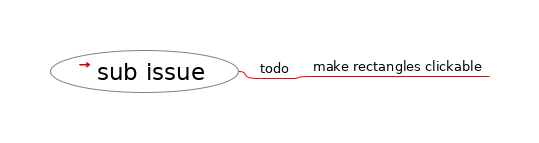
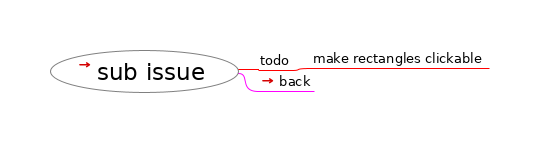
sub issue

Changed region(s): [[0.4453, 0.3636, 0.9202, 0.6434]]

diff --git a/index.html b/index.html
@@ -28,12 +28,12 @@
 <area shape="rect" href="#FMID_1857399077FM" alt="next" title="next" coords="395,71,448,89" />
 <area shape="rect" href="#FMID_695904482FM" alt="leopard" title="leopard" coords="395,274,469,292" />
 <area shape="rect" href="#FMID_1672181910FM" alt="png_2878995268067859884.png" title="png_2878995268067859884.png" coords="488,92,1088,470" />
-<area shape="rect" href="#FMID_902002559FM" alt="sub issue" title="sub issue" coords="395,473,481,491" />
+<area shape="rect" href="#FMID_902002559FM" alt="go to sub issue" title="go to sub issue" coords="395,473,520,491" />
 <area shape="rect" href="#FMID_433819245FM" alt="done" title="done" coords="65,232,123,250" />
 <area shape="rect" href="#FMID_848414105FM" alt="later" title="later" coords="69,253,123,271" />
 <area shape="rect" href="#FMID_1042692083FM" alt="waiting" title="waiting" coords="50,274,123,292" />
 <area shape="rect" href="#FMID_1823870673FM" alt="links" title="links" coords="69,295,123,313" />
 </map>
 
-<div class="node"><img src="index.html_files/hide.png" class="hideshow" alt="hide" onClick="toggle(&quot;N65543&quot;)" id="imgN65543" /><img src="index.html_files/icons/calendar.svg" alt="calendar" /> <a id="FMID_1894420573FM" /><div class="nodecontent" style="color:#000000;font-size:150%;"><a href="index.html">Mind Maps</a> <a href="index.html"><img src="index.html_files/ilink.png" alt="User Link" style="border-width:0" /></a></div><div class="content" id="N65543"><div class="node"><img src="index.html_files/leaf.png" class="hideshow" alt="leaf" /><img src="index.html_files/icons/idea.svg" alt="idea" /> <a id="FMID_359991860FM" /><div class="nodecontent" style="color:#000000;font-size:83%;">todo</div></div><div class="node"><img src="index.html_files/leaf.png" class="hideshow" alt="leaf" /><img src="index.html_files/icons/go.svg" alt="go" /> <a id="FMID_1857399077FM" /><div class="nodecontent" style="color:#000000;font-size:83%;">next</div></div><div class="node"><img src="index.html_files/hide.png" class="hideshow" alt="hide" onClick="toggle(&quot;N66529&quot;)" id="imgN66529" /><img src="index.html_files/icons/bookmark.svg" alt="bookmark" /> <a id="FMID_695904482FM" /><div class="nodecontent" style="color:#000000;font-size:83%;">leopard</div><div class="content" id="N66529"><div class="node"><img src="index.html_files/leaf.png" class="hideshow" alt="leaf" /><a id="FMID_1672181910FM" /><div class="nodecontent" style="color:#000000;font-size:83%;">png_2878995268067859884.png</div></div></div></div><div class="node"><img src="index.html_files/leaf.png" class="hideshow" alt="leaf" /><a id="FMID_902002559FM" /><div class="nodecontent" style="color:#000000;font-size:83%;"><a href="sub%20issue.html">sub issue</a> <a href="sub%20issue.html"><img src="index.html_files/ilink.png" alt="User Link" style="border-width:0" /></a></div></div><div class="node"><img src="index.html_files/leaf.png" class="hideshow" alt="leaf" /><img src="index.html_files/icons/button_ok.svg" alt="button_ok" /> <a id="FMID_433819245FM" /><div class="nodecontent" style="color:#000000;font-size:83%;">done</div></div><div class="node"><img src="index.html_files/leaf.png" class="hideshow" alt="leaf" /><img src="index.html_files/icons/prepare.svg" alt="prepare" /> <a id="FMID_848414105FM" /><div class="nodecontent" style="color:#000000;font-size:83%;">later</div></div><div class="node"><img src="index.html_files/leaf.png" class="hideshow" alt="leaf" /><img src="index.html_files/icons/hourglass.svg" alt="hourglass" /> <a id="FMID_1042692083FM" /><div class="nodecontent" style="color:#000000;font-size:83%;">waiting</div></div><div class="node"><img src="index.html_files/leaf.png" class="hideshow" alt="leaf" /><img src="index.html_files/icons/attach.svg" alt="attach" /> <a id="FMID_1823870673FM" /><div class="nodecontent" style="color:#000000;font-size:83%;">links</div></div></div></div>
+<div class="node"><img src="index.html_files/hide.png" class="hideshow" alt="hide" onClick="toggle(&quot;N65543&quot;)" id="imgN65543" /><img src="index.html_files/icons/calendar.png" alt="calendar" /> <a id="FMID_1894420573FM" /><div class="nodecontent" style="color:#000000;font-size:150%;"><a href="index.html">Mind Maps</a> <a href="index.html"><img src="index.html_files/ilink.png" alt="User Link" style="border-width:0" /></a></div><div class="content" id="N65543"><div class="node"><img src="index.html_files/leaf.png" class="hideshow" alt="leaf" /><img src="index.html_files/icons/idea.png" alt="idea" /> <a id="FMID_359991860FM" /><div class="nodecontent" style="color:#000000;font-size:83%;">todo</div></div><div class="node"><img src="index.html_files/leaf.png" class="hideshow" alt="leaf" /><img src="index.html_files/icons/go.png" alt="go" /> <a id="FMID_1857399077FM" /><div class="nodecontent" style="color:#000000;font-size:83%;">next</div></div><div class="node"><img src="index.html_files/hide.png" class="hideshow" alt="hide" onClick="toggle(&quot;N66529&quot;)" id="imgN66529" /><img src="index.html_files/icons/bookmark.png" alt="bookmark" /> <a id="FMID_695904482FM" /><div class="nodecontent" style="color:#000000;font-size:83%;">leopard</div><div class="content" id="N66529"><div class="node"><img src="index.html_files/leaf.png" class="hideshow" alt="leaf" /><a id="FMID_1672181910FM" /><div class="nodecontent" style="color:#000000;font-size:83%;">png_2878995268067859884.png</div></div></div></div><div class="node"><img src="index.html_files/leaf.png" class="hideshow" alt="leaf" /><a id="FMID_902002559FM" /><div class="nodecontent" style="color:#000000;font-size:83%;"><a href="sub%20issue.mm">go to sub issue</a> <a href="sub%20issue.mm"><img src="index.html_files/ilink.png" alt="User Link" style="border-width:0" /></a></div></div><div class="node"><img src="index.html_files/leaf.png" class="hideshow" alt="leaf" /><img src="index.html_files/icons/button_ok.png" alt="button_ok" /> <a id="FMID_433819245FM" /><div class="nodecontent" style="color:#000000;font-size:83%;">done</div></div><div class="node"><img src="index.html_files/leaf.png" class="hideshow" alt="leaf" /><img src="index.html_files/icons/prepare.png" alt="prepare" /> <a id="FMID_848414105FM" /><div class="nodecontent" style="color:#000000;font-size:83%;">later</div></div><div class="node"><img src="index.html_files/leaf.png" class="hideshow" alt="leaf" /><img src="index.html_files/icons/hourglass.png" alt="hourglass" /> <a id="FMID_1042692083FM" /><div class="nodecontent" style="color:#000000;font-size:83%;">waiting</div></div><div class="node"><img src="index.html_files/leaf.png" class="hideshow" alt="leaf" /><img src="index.html_files/icons/attach.png" alt="attach" /> <a id="FMID_1823870673FM" /><div class="nodecontent" style="color:#000000;font-size:83%;">links</div></div></div></div>
 </body></html>

diff --git a/sub issue.html b/sub issue.html
@@ -24,9 +24,10 @@
                };
           
           --></script></head><body><h1>sub issue</h1><div style="width:96%;  padding:2%;  margin-bottom:10px;  border: 0px;  text-align:center;  vertical-align:center;"><img src="sub%20issue.html_files/image.png" style="margin-bottom:10px; &#9;border: 0px; &#9;text-align:center; &#9;vertical-align:center;" alt="Imagemap" usemap="#fm_imagemap" /></div><map name="fm_imagemap" id="fm_imagemap"><area shape="rect" href="#FMID_482652535FM" alt="sub issue" title="sub issue" coords="50,50,239,93" />
-<area shape="rect" href="#FMID_282355099FM" alt="todo" title="todo" coords="258,60,292,78" />
-<area shape="rect" href="#FMID_699967637FM" alt="make rectangles clickable" title="make rectangles clickable" coords="311,58,489,76" />
+<area shape="rect" href="#FMID_282355099FM" alt="todo" title="todo" coords="258,52,292,70" />
+<area shape="rect" href="#FMID_699967637FM" alt="make rectangles clickable" title="make rectangles clickable" coords="311,50,489,68" />
+<area shape="rect" href="#FMID_11475527FM" alt="back" title="back" coords="258,73,314,91" />
 </map>
 
-<div class="node"><img src="sub%20issue.html_files/hide.png" class="hideshow" alt="hide" onClick="toggle(&quot;N65543&quot;)" id="imgN65543" /><a id="FMID_482652535FM" /><div class="nodecontent" style="color:#000000;font-size:150%;"><a href="index.html">sub issue</a> <a href="index.html"><img src="sub%20issue.html_files/ilink.png" alt="User Link" style="border-width:0" /></a></div><div class="content" id="N65543"><div class="node"><img src="sub%20issue.html_files/hide.png" class="hideshow" alt="hide" onClick="toggle(&quot;N66440&quot;)" id="imgN66440" /><a id="FMID_282355099FM" /><div class="nodecontent" style="color:#000000;font-size:83%;">todo</div><div class="content" id="N66440"><div class="node"><img src="sub%20issue.html_files/leaf.png" class="hideshow" alt="leaf" /><a id="FMID_699967637FM" /><div class="nodecontent" style="color:#000000;font-size:83%;">make rectangles clickable</div></div></div></div></div></div>
+<div class="node"><img src="sub%20issue.html_files/hide.png" class="hideshow" alt="hide" onClick="toggle(&quot;N65543&quot;)" id="imgN65543" /><a id="FMID_482652535FM" /><div class="nodecontent" style="color:#000000;font-size:150%;"><a href="index.html">sub issue</a> <a href="index.html"><img src="sub%20issue.html_files/ilink.png" alt="User Link" style="border-width:0" /></a></div><div class="content" id="N65543"><div class="node"><img src="sub%20issue.html_files/hide.png" class="hideshow" alt="hide" onClick="toggle(&quot;N66440&quot;)" id="imgN66440" /><a id="FMID_282355099FM" /><div class="nodecontent" style="color:#000000;font-size:83%;">todo</div><div class="content" id="N66440"><div class="node"><img src="sub%20issue.html_files/leaf.png" class="hideshow" alt="leaf" /><a id="FMID_699967637FM" /><div class="nodecontent" style="color:#000000;font-size:83%;">make rectangles clickable</div></div></div></div><div class="node"><img src="sub%20issue.html_files/leaf.png" class="hideshow" alt="leaf" /><a id="FMID_11475527FM" /><div class="nodecontent" style="color:#000000;font-size:83%;"><a href="index.html">back</a> <a href="index.html"><img src="sub%20issue.html_files/ilink.png" alt="User Link" style="border-width:0" /></a></div></div></div></div>
 </body></html>

diff --git a/sub issue.mm b/sub issue.mm
@@ -63,10 +63,13 @@
 </stylenode>
 </map_styles>
 </hook>
-<hook NAME="AutomaticEdgeColor" COUNTER="3" RULE="ON_BRANCH_CREATION"/>
+<hook NAME="AutomaticEdgeColor" COUNTER="5" RULE="ON_BRANCH_CREATION"/>
 <node TEXT="todo" POSITION="right" ID="ID_282355099" CREATED="1569784843105" MODIFIED="1569784845284">
 <edge COLOR="#ff0000"/>
 <node TEXT="make rectangles clickable" ID="ID_699967637" CREATED="1569784984002" MODIFIED="1569784993605"/>
+</node>
+<node TEXT="back" POSITION="right" ID="ID_11475527" CREATED="1569786234931" MODIFIED="1569786244187" LINK="index.mm">
+<edge COLOR="#ff00ff"/>
 </node>
 </node>
 </map>

diff --git a/index.mm b/index.mm
@@ -80,7 +80,7 @@
 <hook URI="index_files/png_2878995268067859884.png" SIZE="0.6" NAME="ExternalObject"/>
 </node>
 </node>
-<node TEXT="sub issue" POSITION="right" ID="ID_902002559" CREATED="1569784813380" MODIFIED="1569784923631" LINK="sub%20issue.mm">
+<node TEXT="go to sub issue" POSITION="right" ID="ID_902002559" CREATED="1569784813380" MODIFIED="1569786280339" LINK="sub%20issue.mm">
 <edge COLOR="#7c007c"/>
 </node>
 <node TEXT="done" POSITION="left" ID="ID_433819245" CREATED="1569784692637" MODIFIED="1569784692643">
